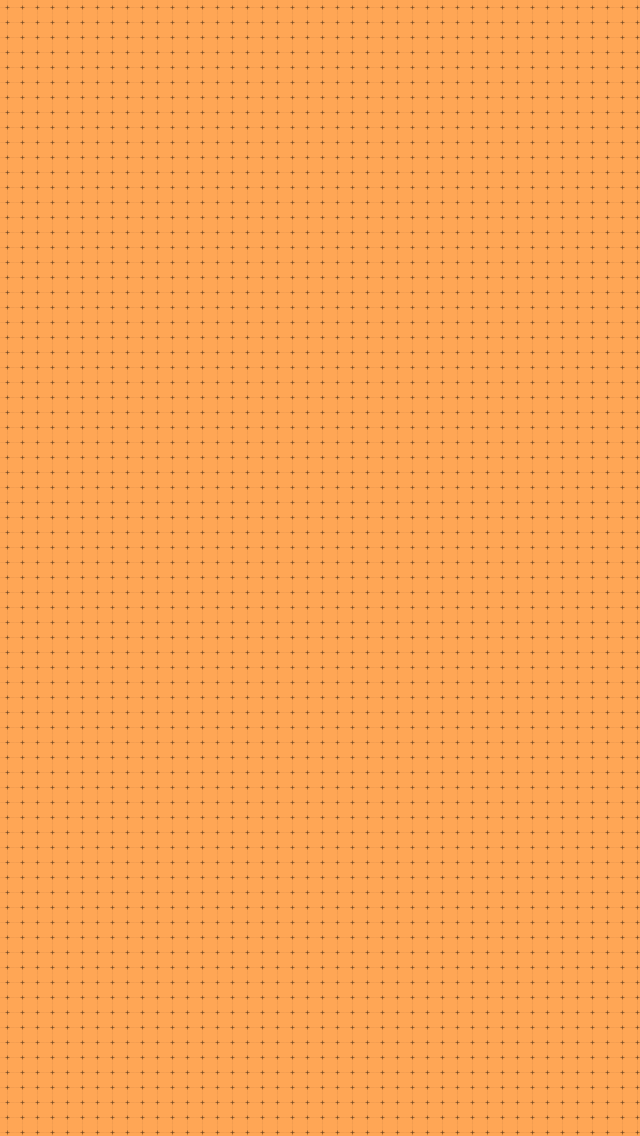
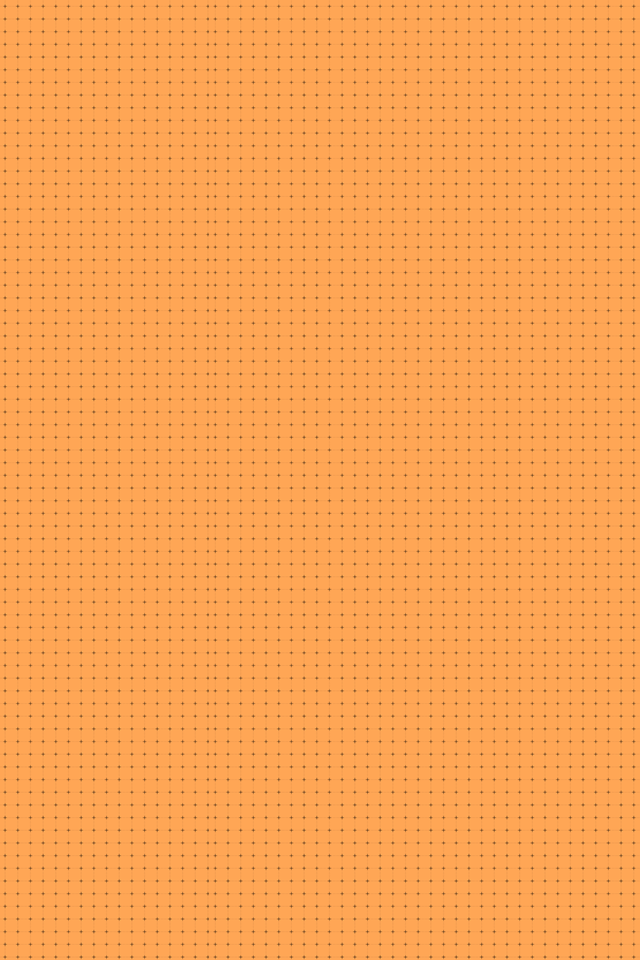
88

diff --git a/index.css b/index.css
@@ -24,7 +24,7 @@ html,body{
 
 #box{
     width: 640px;
-    height: 1136px;
+    height: 960px;
     overflow: hidden;
     position: absolute;
     left:50%;
@@ -49,7 +49,8 @@ html,body{
 }
 
 #ul1 li:nth-child(1){
-    background:url("img/bj.png") no-repeat center center;
+    background:url("img/fff.png") no-repeat center center;
+    background-size: 100%;
     z-index: 10;
 }
 #ul1 li:nth-child(2){
@@ -58,12 +59,15 @@ html,body{
 #ul1 li:nth-child(3){
     background:#ec7d74 url("img/Group7.png") no-repeat;
     background-position: 60% 40%;
+    background-size: 80%;
 }
 #ul1 li:nth-child(4){
     background:#79d4c6  url("img/bottom1.png") no-repeat center bottom;
+
+
 }
 #ul1 li:nth-child(5){
-    background:url("img/bj.png") no-repeat center center;
+    background:url("img/fff.png") no-repeat center center;
 }
 
 #ul1 li.zIndex{
@@ -71,27 +75,35 @@ html,body{
 }
 
 .a0 div{position: absolute; transition: all 1s; -webkit-transition: all 1s;}
-.a0 > div:nth-child(1){width: 395px; height: 142px; background: url("img/header.png") no-repeat; left: -65%; top: 4%;}
+.a0 > div:nth-child(1){width: 325px; height: 106px; background: url("img/header.png") no-repeat;
+    background-size:100%;left: -65%; top: 4%;}
 .a0 > div:nth-child(2){width: 0; height: 0; background: url("img/shouji.png") no-repeat;background-size: 100% 100%; left: 30%; top: 20%;}
 .a0 > div:nth-child(3){width: 140px ;height: 140px; background: url("img/weima.png") no-repeat; left: -25%; top: 72%;}
 .a0 > div:nth-child(4){width: 240px ;height: 60px; background: url("img/anzhuo.png") no-repeat; left: 105%; top: 72%;}
 .a0 > div:nth-child(5){width: 240px ;height: 60px; background: url("img/pingguo%20.png") no-repeat; left: 105%; top: 79%;}
 .a0 > div:nth-child(6){left: 45%; top: 89%;}
 
-#a0 > div:nth-child(1){left: 20%; top: 4%;}
-#a0 > div:nth-child(2){width: 265px; height: 541px; left: 30%; top: 20%;}
+#a0 > div:nth-child(1){left: 24%; top: 4%;}
+#a0 > div:nth-child(2){width: 240px; height: 476px; left: 30%; top: 20%;}
 #a0 > div:nth-child(3){left: 19%; top: 72%;}
 #a0 > div:nth-child(4){left: 45%; top: 72%;}
-#a0 > div:nth-child(5){left: 45%; top: 79%;}
+#a0 > div:nth-child(5){left: 45%; top: 80%;}
 #a0 > div:nth-child(6){left: 45%; top: 89%;}
 
 
 /**********************two**********************/
 .a1 div{position: absolute; transition: all 1s; -webkit-transition: all 1s;}
-.a1 div:nth-of-type(1){width:100%;height:76px;background:url("img/zhuangshi.png") no-repeat; left: -100%; top: 8%;}
-.a1 div:nth-of-type(2){width:70%;height:264px; background: url("img/Group2.png") no-repeat; left: 103%; top: 24%;}
-.a1 div:nth-of-type(3){width:100%;height:407px; background: url("img/Group 6.png") no-repeat; left: 0; top: 51%; opacity: 0; filter:alpha(opacity=0);}
-.a1 div:nth-of-type(4){width:100%;height:148px; background: url("img/masaike.png") no-repeat; left: 0; bottom: 0;}
+.a1 div:nth-of-type(1){width:100%;height:76px;background:url("img/zhuangshi.png") no-repeat; left: -100%; top: 8%;
+background-size: 78%;
+background-position: center}
+.a1 div:nth-of-type(2){width:70%;height:264px; background: url("img/Group2.png") no-repeat; left: 103%; top: 21%;
+background-size: 86%;
+background-position-x: 50%;}
+.a1 div:nth-of-type(3){width:100%;height:407px; background: url("img/Group 6.png") no-repeat; left: 0; top: 48%; opacity: 0; filter:alpha(opacity=0);
+background-size: 86%;
+background-position: center}
+.a1 div:nth-of-type(4){width:100%;height:12%; background: url("img/masaike.png") no-repeat; left: 0; bottom: 0;
+}
 .a1 div:nth-of-type(4) img{}
 
 #a1 div:nth-of-type(1){width:100%;height:76px;left: 0;}
@@ -100,15 +112,29 @@ html,body{
 
 /**********************three**********************/
 .a2 div{position: absolute; transition: all 1s; -webkit-transition: all 1s;}
-.a2 div:nth-child(1){width: 189px; height: 23px;background:url("img/text1.png") no-repeat;left:-30%;top:18%}
-.a2 div:nth-child(2){width: 309px; height: 23px;background:url("img/State%20font.png") no-repeat;left:101%;top:14%}
-.a2 div:nth-child(3){width: 111px; height: 111px;background:url("img/large.png") no-repeat;left:-17%;top:22%}
-.a2 div:nth-child(4){width: 316px; height: 74px;background:url("img/tiao3.png") no-repeat;left:101%;top:18%}
-.a2 div:nth-child(5){width: 237px; height: 71px;background:url("img/red.png") no-repeat;left:-37%;top:58%}
-.a2 div:nth-child(6){width: 284px; height: 222px;background:url("img/Group11.png") no-repeat;left: -45%;top:66%}
-.a2 div:nth-child(7){width: 301px; height: 109px;background:url("img/student.png") no-repeat;left:101%;top:64%}
-.a2 div:nth-child(8){width: 284px; height: 23px;background:url("img/canteen.png") no-repeat;left:101%;top:76%}
-.a2 div:nth-child(9){width: 640px; height: 148px;background:url("img/Shading.png") no-repeat;left:0;bottom:0;}
+.a2 div:nth-child(1){width: 189px; height: 23px;background:url("img/text1.png") no-repeat;left:-30%;top:17%;
+background-size: 80%;
+background-position: right}
+.a2 div:nth-child(2){width: 309px; height: 23px;background:url("img/State%20font.png") no-repeat;left:101%;top:14%;
+    background-size: 80%}
+.a2 div:nth-child(3){width: 25%; height: 111px;background:url("img/large.png") no-repeat;left:-20%;top:21%;
+background-position: center;
+background-size: 63%;}
+.a2 div:nth-child(4){width: 316px; height: 74px;background:url("img/tiao3.png") no-repeat;left:101%;top:18%;
+background-size: 80%}
+.a2 div:nth-child(5){width: 260px; height: 71px;background:url("img/red.png") no-repeat;left:-40%;top:58%;
+    background-size: 80%;
+background-position: right}
+.a2 div:nth-child(6){width: 284px; height: 222px;background:url("img/Group11.png") no-repeat;left: -45%;top:66%;
+background-size: 82%;
+background-position-x: 86%}
+.a2 div:nth-child(7){width: 301px; height: 109px;background:url("img/student.png") no-repeat;left:101%;top:64%;
+    background-size: 80%}
+.a2 div:nth-child(8){width: 284px; height: 23px;background:url("img/canteen.png") no-repeat;left:101%;top:76%;
+    background-size: 80%}
+.a2 div:nth-child(9){width: 640px; height: 148px;background:url("img/Shading.png") no-repeat;left:0;bottom:0;
+    background-size: 80%;
+background-position: right}
 .a2 div:nth-child(9) img{margin-top:3%;}
 
 #a2 div:nth-child(1){left:8%;}
@@ -234,15 +260,20 @@ html,body{
 .a4 div{position: absolute; transition: all 1s; -webkit-transition: all 1s;}
 .a4 div:nth-child(1){width: 184px; height: 77px; background: url("img/jinchisa.png") no-repeat; left: -30%; top: 15%;}
 .a4 div:nth-child(2){width:100%; left: 101%; top: 25%;font-size: 2rem; color: white;}
-.a4 div:nth-child(3){width: 220px; height: 220px; background: url("img/weima1.png") no-repeat; left: -50%; top: 35%;}
+.a4 div:nth-child(3){width: 30%; height: 20%; background: url("img/weima1.png") no-repeat; left: -50%; top: 35%;
+}
 .a4 div:nth-child(4){width: 320px; height: 80px; background: url("img/anzhuo1.png") no-repeat; left: 101%; top: 63%;}
 .a4 div:nth-child(5){width: 320px; height: 80px; background: url("img/pingguo1.png") no-repeat; left: -50%; top: 72%;}
 
-#a4 div:nth-child(1){width: 184px; height: 77px; background: url("img/jinchisa.png") no-repeat; left: 36%; top: 15%;}
-#a4 div:nth-child(2){ left: 1%; top: 25%;font-size: 2rem; color: white;}
-#a4 div:nth-child(3){width: 220px; height: 220px; background: url("img/weima1.png") no-repeat; left: 33%; top: 35%;}
-#a4 div:nth-child(4){width: 320px; height: 80px; background: url("img/anzhuo1.png") no-repeat; left: 25%; top: 63%;}
-#a4 div:nth-child(5){width: 320px; height: 80px; background: url("img/pingguo1.png") no-repeat; left: 25%; top: 72%;}
+#a4 div:nth-child(1){width: 184px; height: 77px; background: url("img/jinchisa.png") no-repeat; left: 36%; top: 15%;
+background-size: 80%;}
+#a4 div:nth-child(2){ left: 1%; top: 25%;font-size: 1.8rem; color: white;}
+#a4 div:nth-child(3){width: 220px; height: 220px; background: url("img/weima1.png") no-repeat; left: 36%; top: 35%;
+background-size: 80%;}
+#a4 div:nth-child(4){width: 320px; height: 80px; background: url("img/anzhuo1.png") no-repeat; left: 30%; top: 63%;
+background-size: 80%;}
+#a4 div:nth-child(5){width: 320px; height: 80px; background: url("img/pingguo1.png") no-repeat; left: 30%; top: 72%;
+    background-size: 80%;}
 
 .icon img{
     position:relative;

diff --git a/index.js b/index.js
@@ -3,11 +3,12 @@
  */
 var main = document.querySelector("#box");
 var oLis = document.querySelectorAll("#ul1>li");
-var winW = document.documentElement.clientWidth;
-var winH = document.documentElement.clientHeight;
+var winW = window.innerWidth;
+
+var winH =window.innerHeight;
 
 var desW = 640;
-var desH = 1136;
+var desH = 960;
 if(desW/desH<winW/winH){
     main.style.webkitTransform = 'scale('+winW/desW+')';
 }else{
@@ -27,7 +28,7 @@ function start(e) {
     this.startTouch = e.changedTouches[0].pageY;
 }
 function move(e) {
-    this.flag = true
+    this.flag = true;
     var moveTouch = e.changedTouches[0].pageY;
     var pos = moveTouch - this.startTouch;
     var index = this.index;
